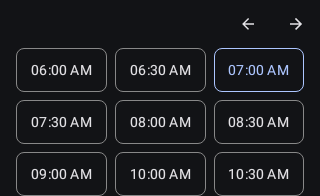
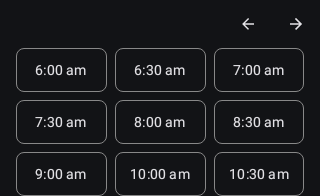
* Fix tests

diff --git a/androidApp/src/test/kotlin/gymplanner/booking/screenshots/BookingContentScreenshotTests.kt b/androidApp/src/test/kotlin/gymplanner/booking/screenshots/BookingContentScreenshotTests.kt
@@ -194,7 +194,7 @@ class BookingContentScreenshotTests {
                 ) {
                     TimeSlotsBox(
                         availableTimes = timeSlots,
-                        selectedTimeSlotId = "07:00 AM",
+                        selectedTimeSlotId = "1",
                         pagerState = pagerState,
                         rowsPerPage = RowsPerPage,
                         itemsPerPage = ItemsPerPage,
@@ -223,7 +223,7 @@ class BookingContentScreenshotTests {
                 ) {
                     TimeSlotsBox(
                         availableTimes = timeSlots,
-                        selectedTimeSlotId = "07:00 AM",
+                        selectedTimeSlotId = "2",
                         pagerState = pagerState,
                         rowsPerPage = RowsPerPage,
                         itemsPerPage = ItemsPerPage,
@@ -249,10 +249,10 @@ class BookingContentScreenshotTests {
         )
 
         private val availableTimes: List<String> = listOf(
-            "06:00 AM", "06:30 AM", "07:00 AM",
-            "07:30 AM", "08:00 AM", "08:30 AM",
-            "09:00 AM", "10:00 AM", "10:30 AM",
-            "11:00 AM", "12:00 PM", "12:30 PM",
+            "06:00:00", "06:30:00", "07:00:00",
+            "07:30:00", "08:00:00", "08:30:00",
+            "09:00:00", "10:00:00", "10:30:00",
+            "11:00:00", "12:00:00", "12:30:00",
         )
 
         val timeSlots = availableTimes.map {
